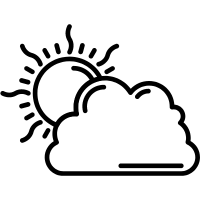
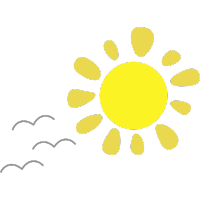
Updated images and indicator values

Changed region(s): [[0.0, 0.12, 1.0, 0.9], [0.81, 0.24, 0.93, 0.33], [0.0, 0.81, 0.15, 0.87]]

diff --git a/app/(knowledgebase)/[slug]/page.jsx b/app/(knowledgebase)/[slug]/page.jsx
@@ -198,21 +198,42 @@ async function KnowledgeBase({ params }) {
     }
 
     // 'currencyName(symbol)'
-    let currencySymbol, currencyNameAndSymbol;
-    if (indicator === 'currencyName') {
+    // let currencySymbol, currencyDetails;
+    // if (indicator === 'currencyName') {
+    //   currencySymbol = await fetchIndicatorInfo(
+    //     'country',
+    //     'currencySymbol',
+    //     indicatorType
+    //   );
+    //   currencyDetails = indicatorInfo.map((currencyData) => {
+    //     const symbolData = currencySymbol.find(
+    //       (symbol) => symbol.country === currencyData.country
+    //     );
+
+    //     return {
+    //       country: currencyData.country,
+    //       currencyName: currencyData.currencyName,
+    //       currencySymbol: symbolData ? symbolData.currencySymbol : null,
+    //     };
+    //   });
+    // }
+
+    let currencySymbol, currencyDetails;
+    if (indicator === 'currencyName' || indicator === 'unitValueInUSD') {
       currencySymbol = await fetchIndicatorInfo(
         'country',
         'currencySymbol',
         indicatorType
       );
-      currencyNameAndSymbol = indicatorInfo.map((currencyData) => {
+      currencyDetails = indicatorInfo.map((currencyData) => {
         const symbolData = currencySymbol.find(
           (symbol) => symbol.country === currencyData.country
         );
 
         return {
           country: currencyData.country,
-          currencyName: currencyData.currencyName,
+          currencyName: indicator === 'currencyName' ? currencyData.currencyName : '',
+          unitValueInUSD: indicator === 'unitValueInUSD' ? currencyData.unitValueInUSD : '',
           currencySymbol: symbolData ? symbolData.currencySymbol : null,
         };
       });
@@ -250,8 +271,8 @@ async function KnowledgeBase({ params }) {
     const sourceArray =
       indicator === 'majorReligion'
         ? majorReligionWithPercentage
-        : indicator === 'currencyName'
-          ? currencyNameAndSymbol
+        : indicator === 'currencyName' || indicator === 'unitValueInUSD'
+          ? currencyDetails
           : indicatorInfo;
     const dividedArrays = Array.from(
       { length: Math.ceil(sourceArray?.length / chunkSize) },
@@ -428,10 +449,9 @@ async function KnowledgeBase({ params }) {
                                   )} (${obj['majorReligionPercentage']}%)`
                                   : indicator === 'currencyName'
                                     ? `${obj[realIndicator]} (${obj['currencySymbol']})`
-                                    : realIndicator === 'HDI' ||
-                                      realIndicator === 'unitValueInUSD'
+                                    : realIndicator === 'HDI'
                                       ? obj[realIndicator]
-                                      : (
+                                      : realIndicator === 'unitValueInUSD' ? `1 ${obj['currencySymbol']} = ${obj[realIndicator]} USD` : (
                                         <>
                                           {formatNumberWithCommas(obj[realIndicator])}{" "}
                                           {indicatorValueType(realIndicator, isCountry)}

diff --git a/lib/weather/weather.js b/lib/weather/weather.js
@@ -84,9 +84,7 @@ const sleep = (ms) => new Promise(resolve => setTimeout(resolve, ms));
 //   }
 // };
 
-const weatherImages = ['clear-sky', 'clouds', 'drizzle', 'drizzle-rain', 'heavy-snow', 'light-rain', 'light-snow', 'mist', 'moderate-rain', 'sand', 'sleet', 'snow', 'sunny', 'thunderstrom', 'tornado', 'very-heavy-rain']
-
-const possibilities = ['haze', 'Broken Clouds', 'Overcast Clouds']
+const weatherImages = ['clear-sky', 'clouds', 'broken-clouds', 'overcast-clouds', 'drizzle', 'drizzle-rain', 'heavy-snow', 'light-rain', 'light-snow', 'mist', 'haze', 'moderate-rain', 'sand', 'sleet', 'snow', 'sunny', 'thunderstrom', 'tornado', 'very-heavy-rain']
 
 // Function to find the most suitable weather image based on the description
 const getWeatherImage = (description) => {
@@ -95,9 +93,6 @@ const getWeatherImage = (description) => {
   //  Check for an exact match in weatherImages
   let weatherImage = weatherImages.find(image => image === formattedDescription);
 
-  if (!weatherImage && formattedDescription.includes('haze')) {
-    weatherImage = 'mist'
-  }
   //  check for the most relevant word match
   if (!weatherImage) {
     weatherImage = weatherImages.find(image => formattedDescription.includes(image));

diff --git a/lib/array-list/indicators.js b/lib/array-list/indicators.js
@@ -4,7 +4,6 @@ export const indicatorsGeneral = [
   'officialName',
   'landlockedStatus',
   'currencyName',
-  'currencySymbol',
   'nationalBird',
   'nationalColors',
   'nationalFlower',
@@ -83,7 +82,7 @@ export const indicatorValueType = (value, isCountry) => {
     CO2Emission: 'kg per PPP $ of GDP',
     accessToElectricity: '%',
     accessToInternet: '%',
-    employmentRate: '%',
+    employmentRate: '%'
   };
   return specialCases[value] || '';
 };
